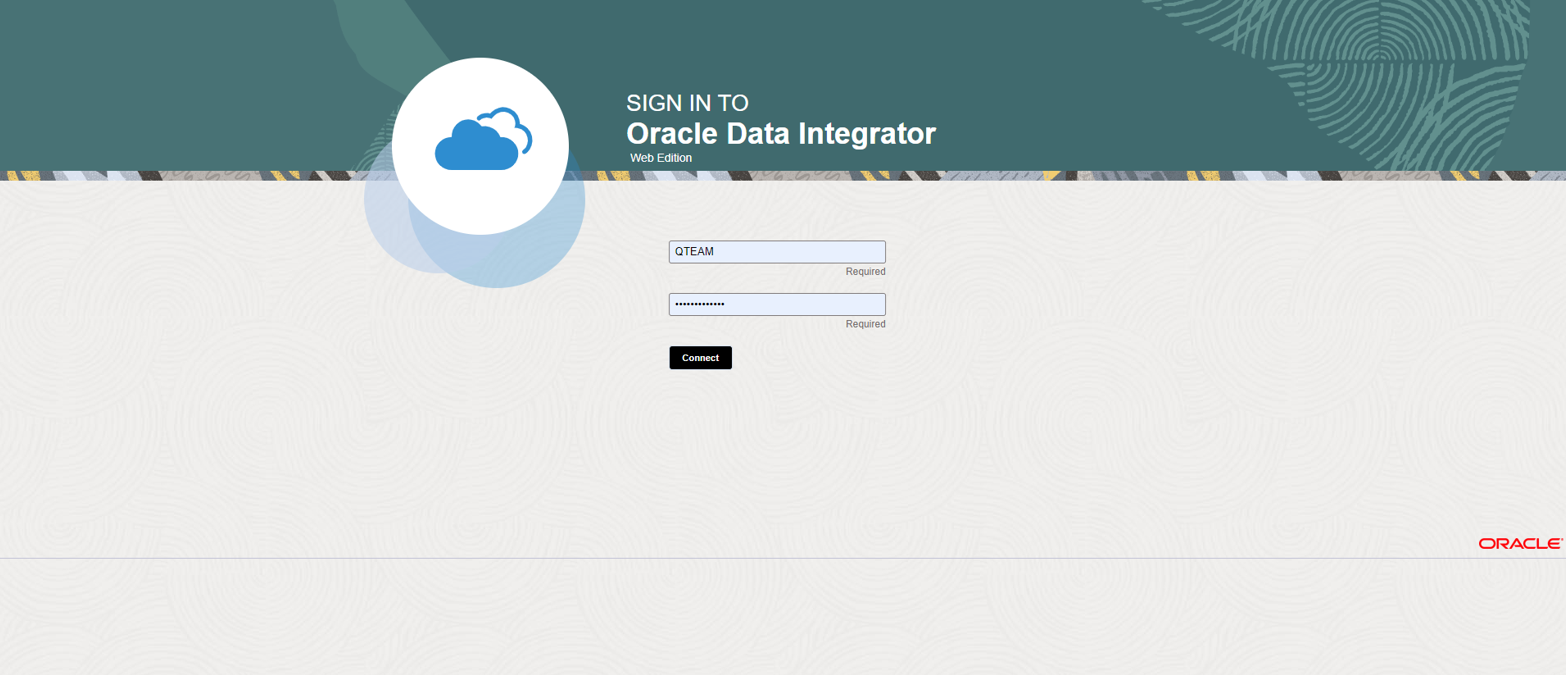
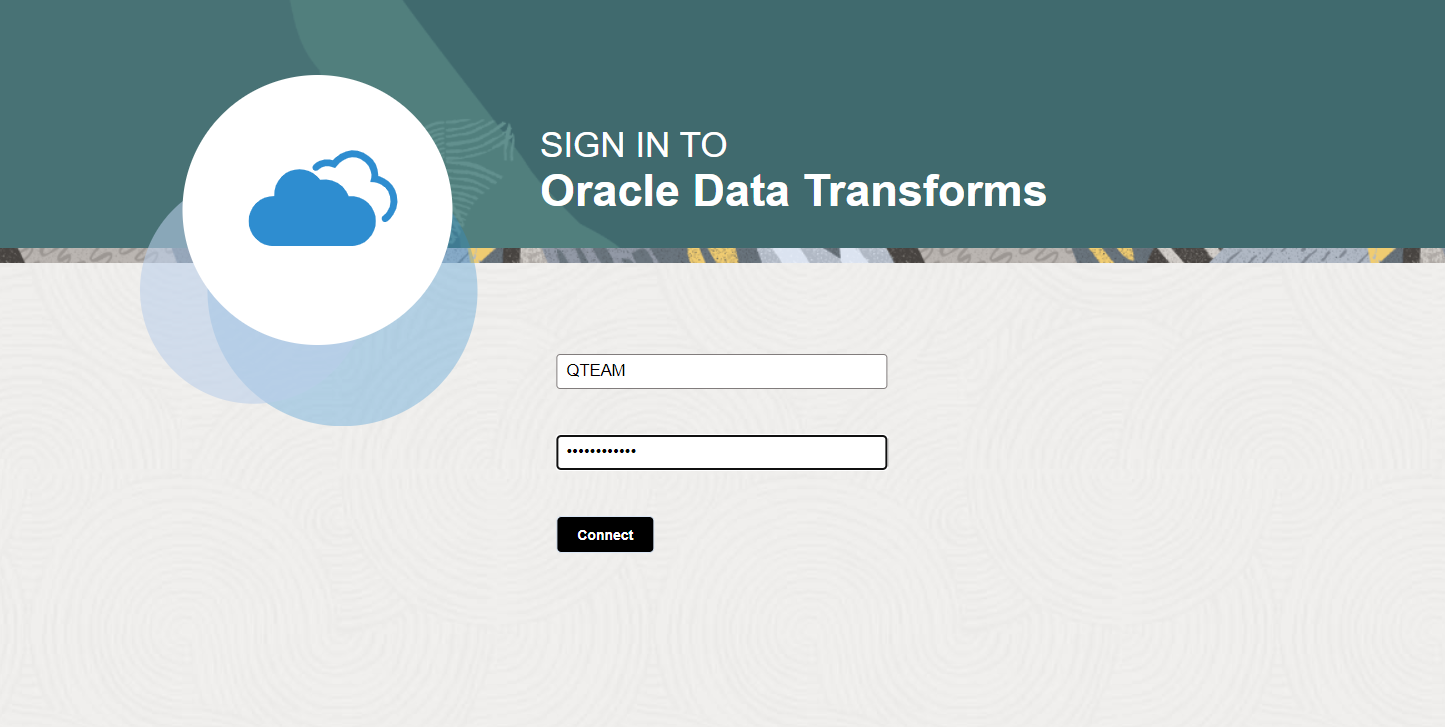
WMS ID: 5001 - changes for AnDOUC HOL  (#302)
* Update manifest.json

* Screenshot changes to Transforms startup

* Update image15_transform_start.png

diff --git a/shared/workshops/adb-datastudio/overview/7-transform-data.md b/shared/workshops/adb-datastudio/overview/7-transform-data.md
@@ -254,12 +254,12 @@ The **Data Transforms** tool makes such data preparation tasks easy.
 
     ![screenshot of data transform service start](images/image15_transform_start.png)
 
-4.  It will take up to 6 minutes for the service to be started for the first time. Once
+4.  It will take up to 3-5 minutes for the service to be started for the first time. Once
     provisioned you will see the following home screen.
 
     >**Note:** The Data Transforms tool is provisioned based on demand. After 10 minutes of 
     inactivity, it will go into sleep mode and needs to
-    be started again. Subsequent start time will be much smaller than the first time.  Clicking on any part of the UI will start the service again if it has gone into sleep mode. If you get any error, then
+    be started again. Maximum timeout can be configured in the tools configuration menu from the Autonomous Database OCI console. Subsequent start time will be much smaller than the first time.  Clicking on any part of the UI will start the service again if it has gone into sleep mode. If you get any error, then
     refresh your browser.
 
     ![screenshot of Data Transforms home page](images/image16_transform_home.png)

diff --git a/shared/workshops/adb-datastudio/overview/7-transform-data-short.md b/shared/workshops/adb-datastudio/overview/7-transform-data-short.md
@@ -54,12 +54,12 @@ The **Data Transforms** tool makes such data preparation tasks easy.
 
     ![screenshot of data transform service start](images/image15_transform_start.png)
 
-4.  It will take up to 3 minutes for the service to be started for the first time. Once
+4.  It will take up to 3-5 minutes for the service to be started for the first time. Once
     provisioned you will see the following home screen.
 
     >**Note:** The Data Transforms tool is provisioned based on demand. After 10 minutes of 
     inactivity, it will go into sleep mode and needs to
-    be started again. Subsequent start time will be much smaller than the first time.  Clicking on any part of the UI will start the service again if it has gone into sleep mode. If you get any error, then
+    be started again. Maximum timeout can be configured in the tools configuration menu from the Autonomous Database OCI console. Subsequent start time will be much smaller than the first time.  Clicking on any part of the UI will start the service again if it has gone into sleep mode. If you get any error, then
     refresh your browser.
 
     ![screenshot of Data Transforms home page](images/image16_transform_home.png)
